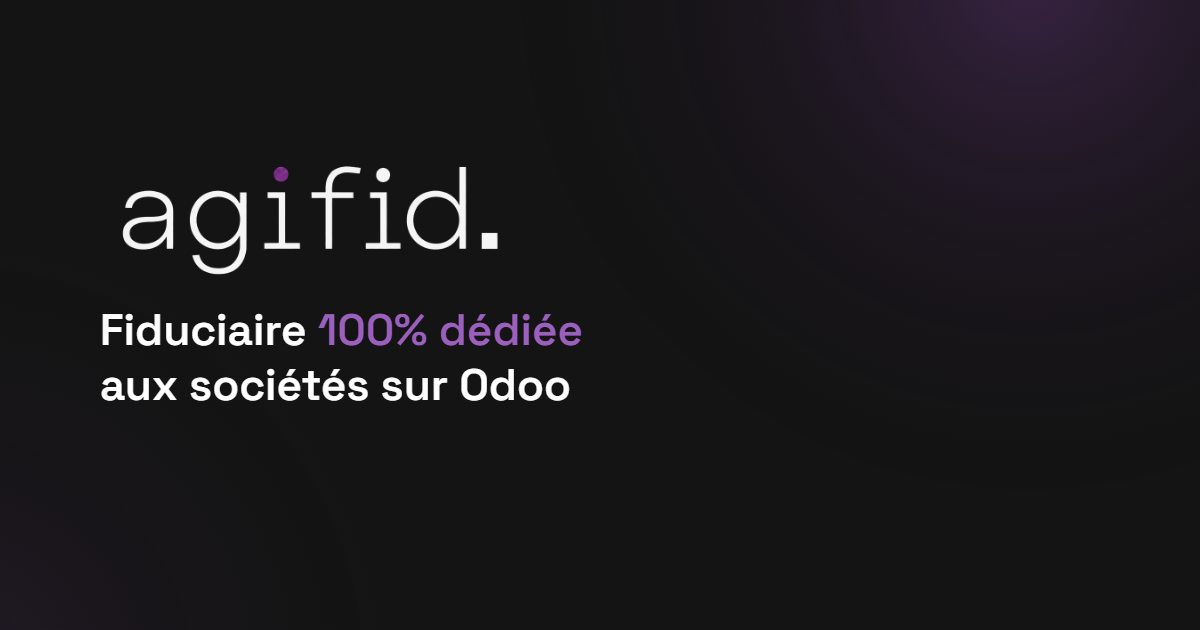
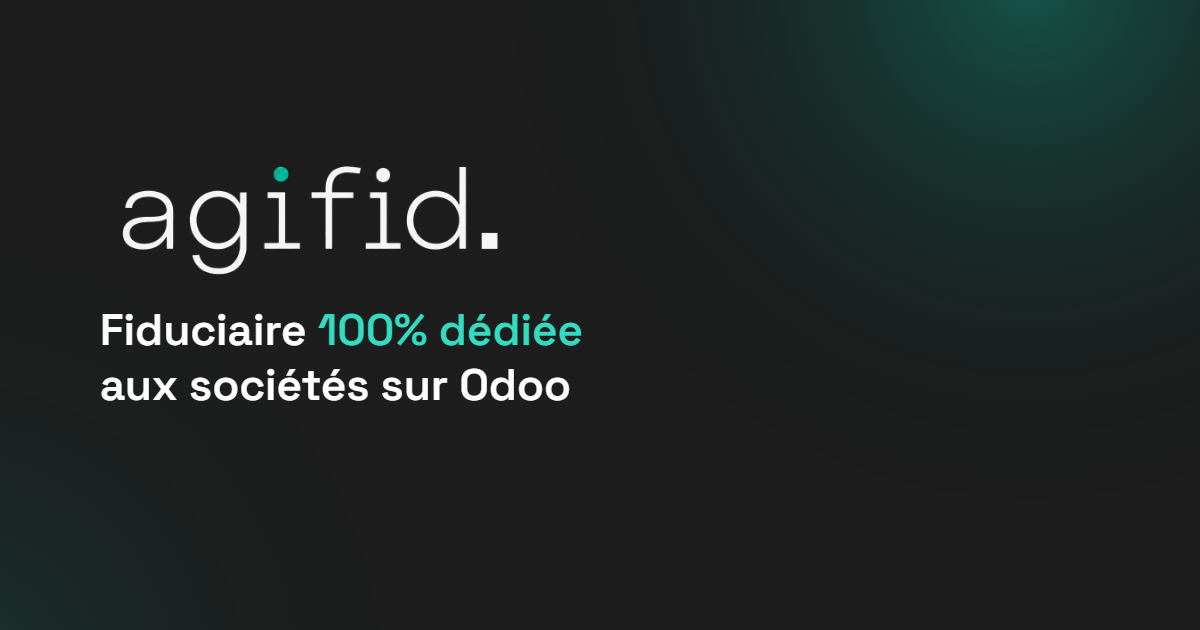
og-image dot green, wire real reCAPTCHA site key
- og-image.png regenerated with the green logo dot, matching the
  new brand accent
- reCAPTCHA site key wired in. Secret key NOT committed - goes in
  Formspree's dashboard settings (reCAPTCHA section), not the repo.

Changed region(s): [[0.6783, 0.0, 1.0, 0.3016], [0.2467, 0.4825, 0.4933, 0.573], [0.2158, 0.2714, 0.2467, 0.3016]]

diff --git a/index.html b/index.html
@@ -461,12 +461,9 @@
         </div>
         <input type="hidden" name="_subject" value="Nouvelle demande de contact - AgiFid">
         <input type="hidden" name="_next" value="merci-formulaire.html">
-        <!-- TODO: reCAPTCHA v2 (comme sur agicompta.be/fr_be/contact-us/) : créer un site key propre au domaine
-             final sur https://www.google.com/recaptcha/admin (le site key du site modèle est lié à SON domaine
-             et ne fonctionnera pas ici), puis remplacer YOUR_RECAPTCHA_SITE_KEY ci-dessous. Activer aussi la
-             vérification reCAPTCHA dans les paramètres du formulaire Formspree (site key + secret key). -->
+        <!-- Secret key reCAPTCHA à activer dans les paramètres du formulaire Formspree (pas dans le code). -->
         <div class="form-field">
-          <div class="g-recaptcha" data-sitekey="YOUR_RECAPTCHA_SITE_KEY"></div>
+          <div class="g-recaptcha" data-sitekey="6LflepEtAAAAAIMLMKQcFU-Kh6tTLgF5_6UlkmCL"></div>
         </div>
         <button type="submit" class="btn btn-violet">Envoyer →</button>
       </form>
